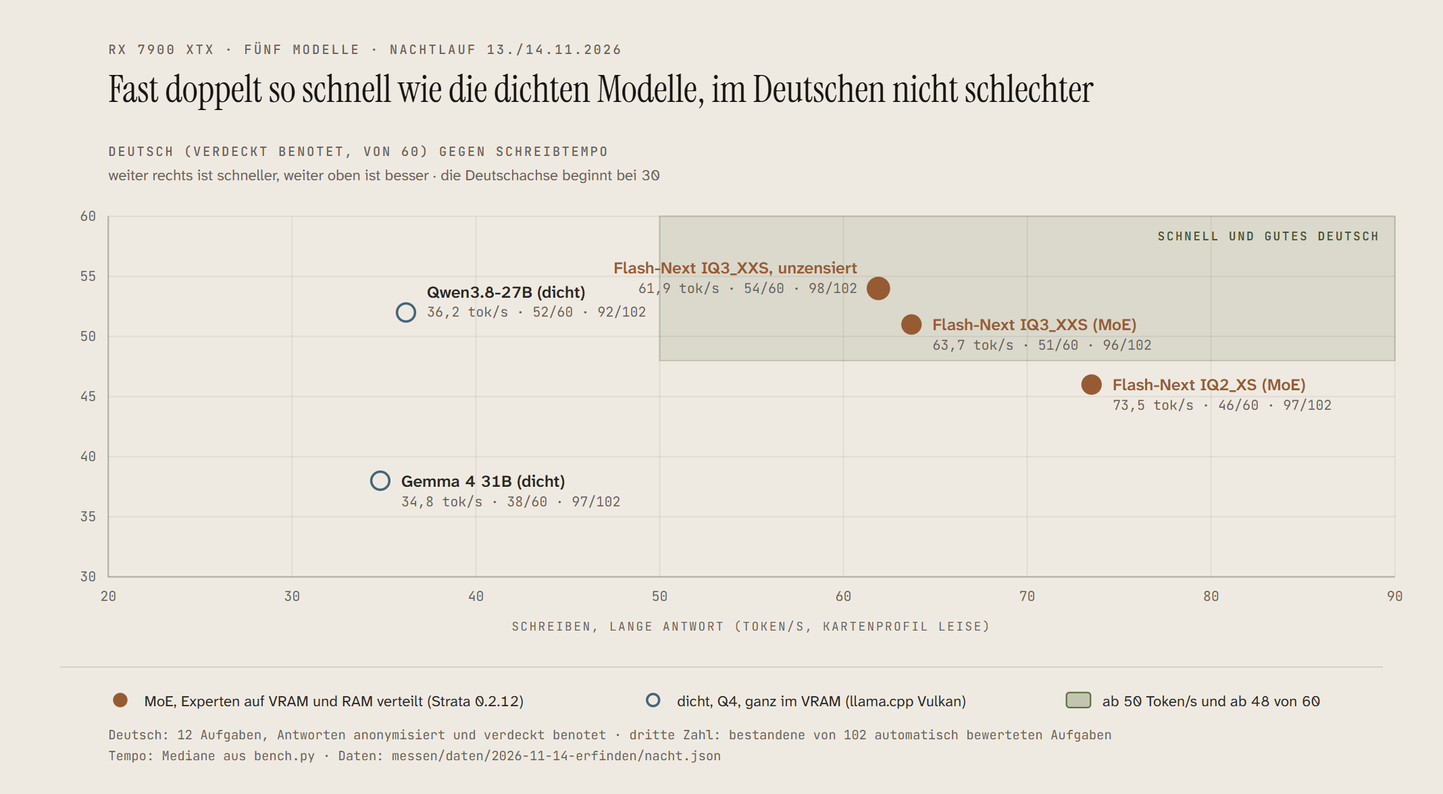
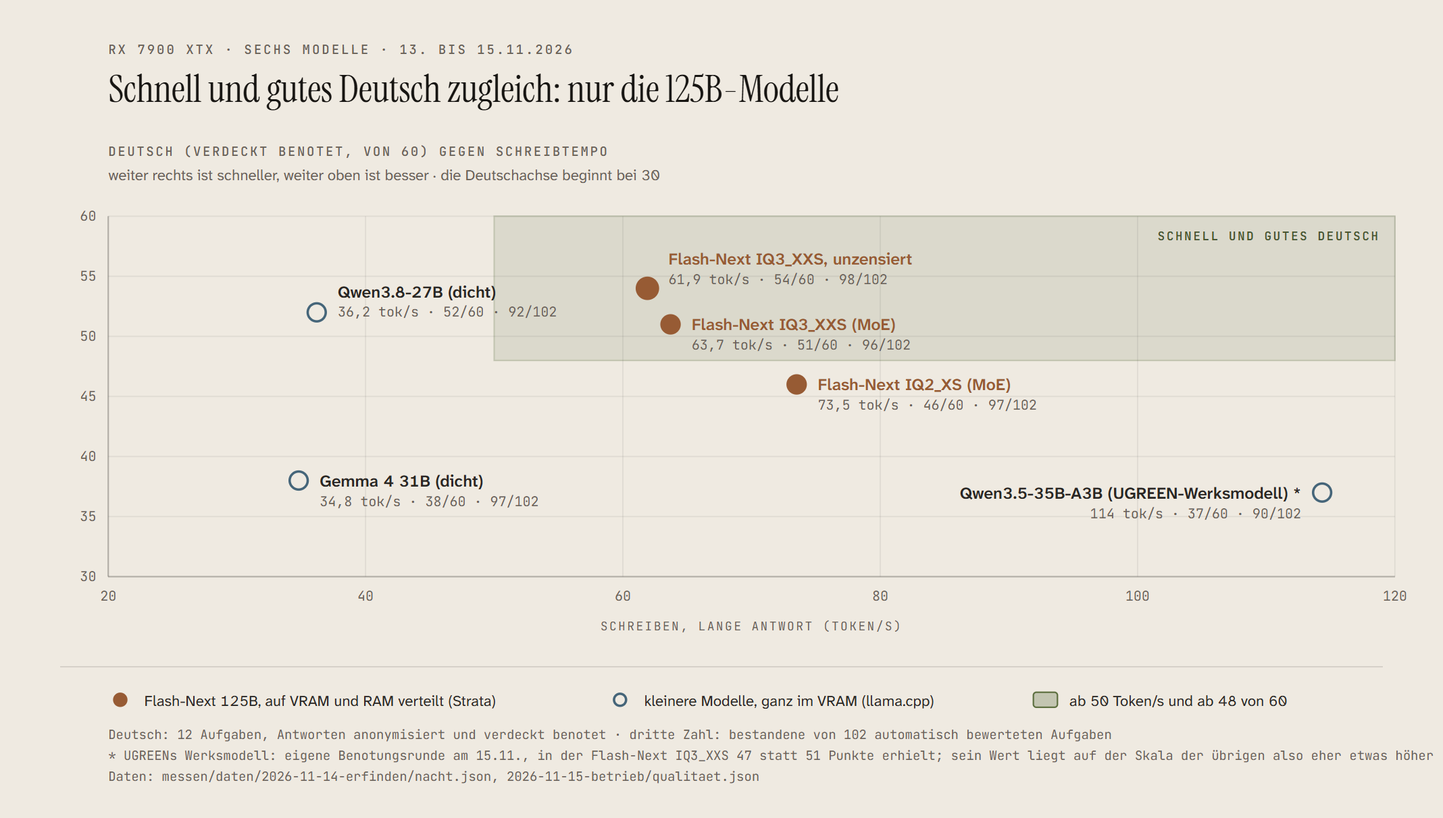
Model comparison with six models incl. the UGREEN stock model; chart on the page (EN/DE)

diff --git a/bilder/html/dicht-moe-en.html b/bilder/html/dicht-moe-en.html
@@ -3,7 +3,7 @@
 <head>
   <meta charset="UTF-8">
   <meta name="viewport" content="width=device-width, initial-scale=1.0">
-  <title>Almost twice as fast as the dense models, and no worse at German</title>
+  <title>Fast and good German at once: only the 125B models</title>
   <link href="https://fonts.googleapis.com/css2?family=Instrument+Serif:ital@0;1&family=Atkinson+Hyperlegible+Next:ital,wght@0,400;0,600;0,700;1,400&family=JetBrains+Mono:wght@400;500;600&display=swap" rel="stylesheet">
   <style>
     *, *::before, *::after { box-sizing: border-box; margin: 0; padding: 0; }
@@ -16,15 +16,15 @@
 </head>
 <body>
   <div class="frame"><div class="scroll">
-    <svg viewBox="0 0 960 528" xmlns="http://www.w3.org/2000/svg" role="img" aria-labelledby="dicht-moe-en-title dicht-moe-en-desc">
-      <title id="dicht-moe-en-title">Almost twice as fast as the dense models, and no worse at Ge</title>
-      <desc id="dicht-moe-en-desc">Five models on one card by decode speed and blind-graded German: the three MoE models write at 62 to 74 tokens per second with 46 to 54 of 60 points, the two dense ones at 35 and 36 with 38 and 52; the uncensored model has the best German at 54.</desc>
-      <rect width="960" height="528" fill="#efeae1"/>
-      <text x="72.0" y="36.0" fill="#6a6258" font-size="8.5" font-family="'JetBrains Mono', Consolas, monospace" font-weight="500" letter-spacing="0.16em">RX 7900 XTX · FIVE MODELS · NIGHT RUN 13/14 NOV 2026</text>
-      <text x="72.0" y="68.0" fill="#171512" font-size="25" font-family="'Instrument Serif', Georgia, serif">Almost twice as fast as the dense models, and no worse at German</text>
+    <svg viewBox="0 0 960 544" xmlns="http://www.w3.org/2000/svg" role="img" aria-labelledby="dicht-moe-en-title dicht-moe-en-desc">
+      <title id="dicht-moe-en-title">Fast and good German at once: only the 125B models</title>
+      <desc id="dicht-moe-en-desc">Six models on one card by decode speed and blind-graded German: the three 125B models write at 62 to 74 tokens per second with 46 to 54 of 60 points, two dense models at 35 and 36 with 38 and 52, UGREEN&#x27;s Qwen 3.5 at 114 with 37.</desc>
+      <rect width="960" height="544" fill="#efeae1"/>
+      <text x="72.0" y="36.0" fill="#6a6258" font-size="8.5" font-family="'JetBrains Mono', Consolas, monospace" font-weight="500" letter-spacing="0.16em">RX 7900 XTX · SIX MODELS · 13 TO 15 NOV 2026</text>
+      <text x="72.0" y="68.0" fill="#171512" font-size="25" font-family="'Instrument Serif', Georgia, serif">Fast and good German at once: only the 125B models</text>
       <text x="72.0" y="104.0" fill="#6a6258" font-size="8.5" font-family="'JetBrains Mono', Consolas, monospace" font-weight="500" letter-spacing="0.14em">GERMAN (GRADED BLIND, OF 60) AGAINST DECODE SPEED</text>
       <text x="72.0" y="120.0" fill="#6a6258" font-size="10" font-family="'Atkinson Hyperlegible Next', 'Segoe UI', sans-serif">further right is faster, further up is better · the German axis starts at 30</text>
-      <rect x="438.9" y="144.0" width="489.1" height="96.0" fill="#c3c5b1" fill-opacity="0.45" stroke="#c3c5b1" stroke-width="1"/>
+      <rect x="328.8" y="144.0" width="599.2" height="96.0" fill="#c3c5b1" fill-opacity="0.45" stroke="#c3c5b1" stroke-width="1"/>
       <text x="918.0" y="160.0" fill="#485530" font-size="8" font-family="'JetBrains Mono', Consolas, monospace" text-anchor="end" font-weight="600" letter-spacing="0.14em">FAST AND GOOD GERMAN</text>
       <text x="64.0" y="387.0" fill="#6a6258" font-size="9" font-family="'JetBrains Mono', Consolas, monospace" text-anchor="end">30</text>
       <line x1="72.0" y1="344.0" x2="928.0" y2="344.0" stroke="#2a2724" stroke-opacity="0.08" stroke-width="0.8"/>
@@ -41,46 +41,46 @@
       <text x="64.0" y="147.0" fill="#6a6258" font-size="9" font-family="'JetBrains Mono', Consolas, monospace" text-anchor="end">60</text>
       <line x1="72.0" y1="144.0" x2="72.0" y2="384.0" stroke="#2a2724" stroke-opacity="0.3" stroke-width="1"/>
       <line x1="72.0" y1="384.0" x2="928.0" y2="384.0" stroke="#2a2724" stroke-opacity="0.3" stroke-width="1"/>
-      <line x1="194.3" y1="144.0" x2="194.3" y2="384.0" stroke="#2a2724" stroke-opacity="0.08" stroke-width="0.8"/>
-      <text x="194.3" y="400.0" fill="#6a6258" font-size="9" font-family="'JetBrains Mono', Consolas, monospace" text-anchor="middle">30</text>
-      <line x1="316.6" y1="144.0" x2="316.6" y2="384.0" stroke="#2a2724" stroke-opacity="0.08" stroke-width="0.8"/>
-      <text x="316.6" y="400.0" fill="#6a6258" font-size="9" font-family="'JetBrains Mono', Consolas, monospace" text-anchor="middle">40</text>
-      <line x1="438.9" y1="144.0" x2="438.9" y2="384.0" stroke="#2a2724" stroke-opacity="0.08" stroke-width="0.8"/>
-      <text x="438.9" y="400.0" fill="#6a6258" font-size="9" font-family="'JetBrains Mono', Consolas, monospace" text-anchor="middle">50</text>
-      <line x1="561.1" y1="144.0" x2="561.1" y2="384.0" stroke="#2a2724" stroke-opacity="0.08" stroke-width="0.8"/>
-      <text x="561.1" y="400.0" fill="#6a6258" font-size="9" font-family="'JetBrains Mono', Consolas, monospace" text-anchor="middle">60</text>
-      <line x1="683.4" y1="144.0" x2="683.4" y2="384.0" stroke="#2a2724" stroke-opacity="0.08" stroke-width="0.8"/>
-      <text x="683.4" y="400.0" fill="#6a6258" font-size="9" font-family="'JetBrains Mono', Consolas, monospace" text-anchor="middle">70</text>
-      <line x1="805.7" y1="144.0" x2="805.7" y2="384.0" stroke="#2a2724" stroke-opacity="0.08" stroke-width="0.8"/>
-      <text x="805.7" y="400.0" fill="#6a6258" font-size="9" font-family="'JetBrains Mono', Consolas, monospace" text-anchor="middle">80</text>
+      <line x1="243.2" y1="144.0" x2="243.2" y2="384.0" stroke="#2a2724" stroke-opacity="0.08" stroke-width="0.8"/>
+      <text x="243.2" y="400.0" fill="#6a6258" font-size="9" font-family="'JetBrains Mono', Consolas, monospace" text-anchor="middle">40</text>
+      <line x1="414.4" y1="144.0" x2="414.4" y2="384.0" stroke="#2a2724" stroke-opacity="0.08" stroke-width="0.8"/>
+      <text x="414.4" y="400.0" fill="#6a6258" font-size="9" font-family="'JetBrains Mono', Consolas, monospace" text-anchor="middle">60</text>
+      <line x1="585.6" y1="144.0" x2="585.6" y2="384.0" stroke="#2a2724" stroke-opacity="0.08" stroke-width="0.8"/>
+      <text x="585.6" y="400.0" fill="#6a6258" font-size="9" font-family="'JetBrains Mono', Consolas, monospace" text-anchor="middle">80</text>
+      <line x1="756.8" y1="144.0" x2="756.8" y2="384.0" stroke="#2a2724" stroke-opacity="0.08" stroke-width="0.8"/>
+      <text x="756.8" y="400.0" fill="#6a6258" font-size="9" font-family="'JetBrains Mono', Consolas, monospace" text-anchor="middle">100</text>
       <line x1="928.0" y1="144.0" x2="928.0" y2="384.0" stroke="#2a2724" stroke-opacity="0.08" stroke-width="0.8"/>
-      <text x="928.0" y="400.0" fill="#6a6258" font-size="9" font-family="'JetBrains Mono', Consolas, monospace" text-anchor="middle">90</text>
+      <text x="928.0" y="400.0" fill="#6a6258" font-size="9" font-family="'JetBrains Mono', Consolas, monospace" text-anchor="middle">120</text>
       <text x="72.0" y="400.0" fill="#6a6258" font-size="9" font-family="'JetBrains Mono', Consolas, monospace" text-anchor="middle">20</text>
-      <text x="500.0" y="420.0" fill="#6a6258" font-size="8" font-family="'JetBrains Mono', Consolas, monospace" text-anchor="middle" letter-spacing="0.14em">DECODE, LONG ANSWER (TOKENS/S, QUIET CARD PROFILE)</text>
-      <circle cx="606.4" cy="216.0" r="6" fill="#975b34" stroke="#975b34" stroke-width="1.6"/>
-      <text x="620.4" y="220.0" fill="#975b34" font-size="11" font-family="'Atkinson Hyperlegible Next', 'Segoe UI', sans-serif" text-anchor="None" font-weight="600">Flash-Next IQ3_XXS (MoE)</text>
-      <text x="620.4" y="233.0" fill="#6a6258" font-size="9" font-family="'JetBrains Mono', Consolas, monospace" text-anchor="None">63.7 tok/s · 51/60 · 96/102</text>
-      <circle cx="584.4" cy="192.0" r="7" fill="#975b34" stroke="#975b34" stroke-width="1.6"/>
-      <text x="570.4" y="182.0" fill="#975b34" font-size="11" font-family="'Atkinson Hyperlegible Next', 'Segoe UI', sans-serif" text-anchor="end" font-weight="600">Flash-Next IQ3_XXS, uncensored</text>
-      <text x="570.4" y="195.0" fill="#6a6258" font-size="9" font-family="'JetBrains Mono', Consolas, monospace" text-anchor="end">61.9 tok/s · 54/60 · 98/102</text>
-      <circle cx="726.2" cy="256.0" r="6" fill="#975b34" stroke="#975b34" stroke-width="1.6"/>
-      <text x="740.2" y="260.0" fill="#975b34" font-size="11" font-family="'Atkinson Hyperlegible Next', 'Segoe UI', sans-serif" text-anchor="None" font-weight="600">Flash-Next IQ2_XS (MoE)</text>
-      <text x="740.2" y="273.0" fill="#6a6258" font-size="9" font-family="'JetBrains Mono', Consolas, monospace" text-anchor="None">73.5 tok/s · 46/60 · 97/102</text>
-      <circle cx="270.1" cy="208.0" r="6" fill="#efeae1" stroke="#456579" stroke-width="1.6"/>
-      <text x="284.1" y="198.0" fill="#2a2724" font-size="11" font-family="'Atkinson Hyperlegible Next', 'Segoe UI', sans-serif" text-anchor="None" font-weight="600">Qwen3.8-27B (dense)</text>
-      <text x="284.1" y="211.0" fill="#6a6258" font-size="9" font-family="'JetBrains Mono', Consolas, monospace" text-anchor="None">36.2 tok/s · 52/60 · 92/102</text>
-      <circle cx="253.0" cy="320.0" r="6" fill="#efeae1" stroke="#456579" stroke-width="1.6"/>
-      <text x="267.0" y="324.0" fill="#2a2724" font-size="11" font-family="'Atkinson Hyperlegible Next', 'Segoe UI', sans-serif" text-anchor="None" font-weight="600">Gemma 4 31B (dense)</text>
-      <text x="267.0" y="337.0" fill="#6a6258" font-size="9" font-family="'JetBrains Mono', Consolas, monospace" text-anchor="None">34.8 tok/s · 38/60 · 97/102</text>
+      <text x="500.0" y="420.0" fill="#6a6258" font-size="8" font-family="'JetBrains Mono', Consolas, monospace" text-anchor="middle" letter-spacing="0.14em">DECODE, LONG ANSWER (TOKENS/S)</text>
+      <circle cx="446.1" cy="216.0" r="6" fill="#975b34" stroke="#975b34" stroke-width="1.6"/>
+      <text x="460.1" y="220.0" fill="#975b34" font-size="11" font-family="'Atkinson Hyperlegible Next', 'Segoe UI', sans-serif" text-anchor="None" font-weight="600">Flash-Next IQ3_XXS (MoE)</text>
+      <text x="460.1" y="233.0" fill="#6a6258" font-size="9" font-family="'JetBrains Mono', Consolas, monospace" text-anchor="None">63.7 tok/s · 51/60 · 96/102</text>
+      <circle cx="430.7" cy="192.0" r="7" fill="#975b34" stroke="#975b34" stroke-width="1.6"/>
+      <text x="444.7" y="176.0" fill="#975b34" font-size="11" font-family="'Atkinson Hyperlegible Next', 'Segoe UI', sans-serif" text-anchor="None" font-weight="600">Flash-Next IQ3_XXS, uncensored</text>
+      <text x="444.7" y="189.0" fill="#6a6258" font-size="9" font-family="'JetBrains Mono', Consolas, monospace" text-anchor="None">61.9 tok/s · 54/60 · 98/102</text>
+      <circle cx="530.0" cy="256.0" r="6" fill="#975b34" stroke="#975b34" stroke-width="1.6"/>
+      <text x="544.0" y="260.0" fill="#975b34" font-size="11" font-family="'Atkinson Hyperlegible Next', 'Segoe UI', sans-serif" text-anchor="None" font-weight="600">Flash-Next IQ2_XS (MoE)</text>
+      <text x="544.0" y="273.0" fill="#6a6258" font-size="9" font-family="'JetBrains Mono', Consolas, monospace" text-anchor="None">73.5 tok/s · 46/60 · 97/102</text>
+      <circle cx="210.7" cy="208.0" r="6" fill="#efeae1" stroke="#456579" stroke-width="1.6"/>
+      <text x="224.7" y="198.0" fill="#2a2724" font-size="11" font-family="'Atkinson Hyperlegible Next', 'Segoe UI', sans-serif" text-anchor="None" font-weight="600">Qwen3.8-27B (dense)</text>
+      <text x="224.7" y="211.0" fill="#6a6258" font-size="9" font-family="'JetBrains Mono', Consolas, monospace" text-anchor="None">36.2 tok/s · 52/60 · 92/102</text>
+      <circle cx="198.7" cy="320.0" r="6" fill="#efeae1" stroke="#456579" stroke-width="1.6"/>
+      <text x="212.7" y="324.0" fill="#2a2724" font-size="11" font-family="'Atkinson Hyperlegible Next', 'Segoe UI', sans-serif" text-anchor="None" font-weight="600">Gemma 4 31B (dense)</text>
+      <text x="212.7" y="337.0" fill="#6a6258" font-size="9" font-family="'JetBrains Mono', Consolas, monospace" text-anchor="None">34.8 tok/s · 38/60 · 97/102</text>
+      <circle cx="879.6" cy="328.0" r="6" fill="#efeae1" stroke="#456579" stroke-width="1.6"/>
+      <text x="865.6" y="332.0" fill="#2a2724" font-size="11" font-family="'Atkinson Hyperlegible Next', 'Segoe UI', sans-serif" text-anchor="end" font-weight="600">Qwen3.5-35B-A3B (UGREEN stock model) *</text>
+      <text x="865.6" y="345.0" fill="#6a6258" font-size="9" font-family="'JetBrains Mono', Consolas, monospace" text-anchor="end">114 tok/s · 37/60 · 90/102</text>
       <line x1="40.0" y1="444.0" x2="920.0" y2="444.0" stroke="#2a2724" stroke-opacity="0.14" stroke-width="0.8"/>
       <circle cx="80.0" cy="466.0" r="4" fill="#975b34" stroke="#975b34" stroke-width="1.6"/>
-      <text x="96.0" y="470.0" fill="#2a2724" font-size="10" font-family="'Atkinson Hyperlegible Next', 'Segoe UI', sans-serif">MoE, experts split between VRAM and RAM (Strata 0.2.12)</text>
-      <circle cx="434.5" cy="466.0" r="4" fill="#efeae1" stroke="#456579" stroke-width="1.6"/>
-      <text x="450.5" y="470.0" fill="#2a2724" font-size="10" font-family="'Atkinson Hyperlegible Next', 'Segoe UI', sans-serif">dense, Q4, fully in VRAM (llama.cpp Vulkan)</text>
-      <rect x="715.0" y="461.0" width="16.0" height="10.0" fill="#c3c5b1" fill-opacity="1" stroke="#5e7040" stroke-width="1" rx="2"/>
-      <text x="739.0" y="470.0" fill="#2a2724" font-size="10" font-family="'Atkinson Hyperlegible Next', 'Segoe UI', sans-serif">from 50 tokens/s and from 48 of 60</text>
-      <text x="72.0" y="492.0" fill="#6a6258" font-size="8.5" font-family="'JetBrains Mono', Consolas, monospace">German: 12 tasks, answers anonymised and graded blind · third number: passed out of 102 auto-graded tasks · speed: bench.py medians</text>
-      <text x="72.0" y="506.0" fill="#6a6258" font-size="8.5" font-family="'JetBrains Mono', Consolas, monospace">data: messen/daten/2026-11-14-erfinden/nacht.json</text>
+      <text x="96.0" y="470.0" fill="#2a2724" font-size="10" font-family="'Atkinson Hyperlegible Next', 'Segoe UI', sans-serif">Flash-Next 125B, split between VRAM and RAM (Strata)</text>
+      <circle cx="418.0" cy="466.0" r="4" fill="#efeae1" stroke="#456579" stroke-width="1.6"/>
+      <text x="434.0" y="470.0" fill="#2a2724" font-size="10" font-family="'Atkinson Hyperlegible Next', 'Segoe UI', sans-serif">smaller models, fully in VRAM (llama.cpp)</text>
+      <rect x="687.5" y="461.0" width="16.0" height="10.0" fill="#c3c5b1" fill-opacity="1" stroke="#5e7040" stroke-width="1" rx="2"/>
+      <text x="711.5" y="470.0" fill="#2a2724" font-size="10" font-family="'Atkinson Hyperlegible Next', 'Segoe UI', sans-serif">from 50 tokens/s and from 48 of 60</text>
+      <text x="72.0" y="492.0" fill="#6a6258" font-size="8.5" font-family="'JetBrains Mono', Consolas, monospace">German: 12 tasks, answers anonymised and graded blind · third number: passed out of 102 auto-graded tasks</text>
+      <text x="72.0" y="506.0" fill="#6a6258" font-size="8.5" font-family="'JetBrains Mono', Consolas, monospace">* UGREEN&#x27;s stock model: separate grading round on 15 Nov in which Flash-Next IQ3_XXS got 47 instead of 51 points, so on the others&#x27; scale its value is probably a little higher</text>
+      <text x="72.0" y="520.0" fill="#6a6258" font-size="8.5" font-family="'JetBrains Mono', Consolas, monospace">data: messen/daten/2026-11-14-erfinden/nacht.json, 2026-11-15-betrieb/qualitaet.json</text>
     </svg>
   </div></div>
 </body>

diff --git a/bilder/html/dicht-moe-de.html b/bilder/html/dicht-moe-de.html
@@ -3,7 +3,7 @@
 <head>
   <meta charset="UTF-8">
   <meta name="viewport" content="width=device-width, initial-scale=1.0">
-  <title>Fast doppelt so schnell wie die dichten Modelle, im Deutschen nicht schlechter</title>
+  <title>Schnell und gutes Deutsch zugleich: nur die 125B-Modelle</title>
   <link href="https://fonts.googleapis.com/css2?family=Instrument+Serif:ital@0;1&family=Atkinson+Hyperlegible+Next:ital,wght@0,400;0,600;0,700;1,400&family=JetBrains+Mono:wght@400;500;600&display=swap" rel="stylesheet">
   <style>
     *, *::before, *::after { box-sizing: border-box; margin: 0; padding: 0; }
@@ -16,15 +16,15 @@
 </head>
 <body>
   <div class="frame"><div class="scroll">
-    <svg viewBox="0 0 960 528" xmlns="http://www.w3.org/2000/svg" role="img" aria-labelledby="dicht-moe-de-title dicht-moe-de-desc">
-      <title id="dicht-moe-de-title">Fast doppelt so schnell wie die dichten Modelle, im Deutsche</title>
-      <desc id="dicht-moe-de-desc">Fünf Modelle auf einer Karte nach Schreibtempo und verdeckt benotetem Deutsch: die drei MoE-Modelle schreiben mit 62 bis 74 Token je Sekunde bei 46 bis 54 von 60 Punkten, die beiden dichten mit 35 und 36 bei 38 und 52; das unzensierte Modell hat mit 54 das beste Deutsch.</desc>
-      <rect width="960" height="528" fill="#efeae1"/>
-      <text x="72.0" y="36.0" fill="#6a6258" font-size="8.5" font-family="'JetBrains Mono', Consolas, monospace" font-weight="500" letter-spacing="0.16em">RX 7900 XTX · FÜNF MODELLE · NACHTLAUF 13./14.11.2026</text>
-      <text x="72.0" y="68.0" fill="#171512" font-size="25" font-family="'Instrument Serif', Georgia, serif">Fast doppelt so schnell wie die dichten Modelle, im Deutschen nicht schlechter</text>
+    <svg viewBox="0 0 960 544" xmlns="http://www.w3.org/2000/svg" role="img" aria-labelledby="dicht-moe-de-title dicht-moe-de-desc">
+      <title id="dicht-moe-de-title">Schnell und gutes Deutsch zugleich: nur die 125B-Modelle</title>
+      <desc id="dicht-moe-de-desc">Sechs Modelle auf einer Karte nach Schreibtempo und verdeckt benotetem Deutsch: die drei 125B-Modelle schreiben mit 62 bis 74 Token je Sekunde bei 46 bis 54 von 60 Punkten, zwei dichte Modelle mit 35 und 36 bei 38 und 52, UGREENs Qwen 3.5 mit 114 bei 37.</desc>
+      <rect width="960" height="544" fill="#efeae1"/>
+      <text x="72.0" y="36.0" fill="#6a6258" font-size="8.5" font-family="'JetBrains Mono', Consolas, monospace" font-weight="500" letter-spacing="0.16em">RX 7900 XTX · SECHS MODELLE · 13. BIS 15.11.2026</text>
+      <text x="72.0" y="68.0" fill="#171512" font-size="25" font-family="'Instrument Serif', Georgia, serif">Schnell und gutes Deutsch zugleich: nur die 125B-Modelle</text>
       <text x="72.0" y="104.0" fill="#6a6258" font-size="8.5" font-family="'JetBrains Mono', Consolas, monospace" font-weight="500" letter-spacing="0.14em">DEUTSCH (VERDECKT BENOTET, VON 60) GEGEN SCHREIBTEMPO</text>
       <text x="72.0" y="120.0" fill="#6a6258" font-size="10" font-family="'Atkinson Hyperlegible Next', 'Segoe UI', sans-serif">weiter rechts ist schneller, weiter oben ist besser · die Deutschachse beginnt bei 30</text>
-      <rect x="438.9" y="144.0" width="489.1" height="96.0" fill="#c3c5b1" fill-opacity="0.45" stroke="#c3c5b1" stroke-width="1"/>
+      <rect x="328.8" y="144.0" width="599.2" height="96.0" fill="#c3c5b1" fill-opacity="0.45" stroke="#c3c5b1" stroke-width="1"/>
       <text x="918.0" y="160.0" fill="#485530" font-size="8" font-family="'JetBrains Mono', Consolas, monospace" text-anchor="end" font-weight="600" letter-spacing="0.14em">SCHNELL UND GUTES DEUTSCH</text>
       <text x="64.0" y="387.0" fill="#6a6258" font-size="9" font-family="'JetBrains Mono', Consolas, monospace" text-anchor="end">30</text>
       <line x1="72.0" y1="344.0" x2="928.0" y2="344.0" stroke="#2a2724" stroke-opacity="0.08" stroke-width="0.8"/>
@@ -41,46 +41,46 @@
       <text x="64.0" y="147.0" fill="#6a6258" font-size="9" font-family="'JetBrains Mono', Consolas, monospace" text-anchor="end">60</text>
       <line x1="72.0" y1="144.0" x2="72.0" y2="384.0" stroke="#2a2724" stroke-opacity="0.3" stroke-width="1"/>
       <line x1="72.0" y1="384.0" x2="928.0" y2="384.0" stroke="#2a2724" stroke-opacity="0.3" stroke-width="1"/>
-      <line x1="194.3" y1="144.0" x2="194.3" y2="384.0" stroke="#2a2724" stroke-opacity="0.08" stroke-width="0.8"/>
-      <text x="194.3" y="400.0" fill="#6a6258" font-size="9" font-family="'JetBrains Mono', Consolas, monospace" text-anchor="middle">30</text>
-      <line x1="316.6" y1="144.0" x2="316.6" y2="384.0" stroke="#2a2724" stroke-opacity="0.08" stroke-width="0.8"/>
-      <text x="316.6" y="400.0" fill="#6a6258" font-size="9" font-family="'JetBrains Mono', Consolas, monospace" text-anchor="middle">40</text>
-      <line x1="438.9" y1="144.0" x2="438.9" y2="384.0" stroke="#2a2724" stroke-opacity="0.08" stroke-width="0.8"/>
-      <text x="438.9" y="400.0" fill="#6a6258" font-size="9" font-family="'JetBrains Mono', Consolas, monospace" text-anchor="middle">50</text>
-      <line x1="561.1" y1="144.0" x2="561.1" y2="384.0" stroke="#2a2724" stroke-opacity="0.08" stroke-width="0.8"/>
-      <text x="561.1" y="400.0" fill="#6a6258" font-size="9" font-family="'JetBrains Mono', Consolas, monospace" text-anchor="middle">60</text>
-      <line x1="683.4" y1="144.0" x2="683.4" y2="384.0" stroke="#2a2724" stroke-opacity="0.08" stroke-width="0.8"/>
-      <text x="683.4" y="400.0" fill="#6a6258" font-size="9" font-family="'JetBrains Mono', Consolas, monospace" text-anchor="middle">70</text>
-      <line x1="805.7" y1="144.0" x2="805.7" y2="384.0" stroke="#2a2724" stroke-opacity="0.08" stroke-width="0.8"/>
-      <text x="805.7" y="400.0" fill="#6a6258" font-size="9" font-family="'JetBrains Mono', Consolas, monospace" text-anchor="middle">80</text>
+      <line x1="243.2" y1="144.0" x2="243.2" y2="384.0" stroke="#2a2724" stroke-opacity="0.08" stroke-width="0.8"/>
+      <text x="243.2" y="400.0" fill="#6a6258" font-size="9" font-family="'JetBrains Mono', Consolas, monospace" text-anchor="middle">40</text>
+      <line x1="414.4" y1="144.0" x2="414.4" y2="384.0" stroke="#2a2724" stroke-opacity="0.08" stroke-width="0.8"/>
+      <text x="414.4" y="400.0" fill="#6a6258" font-size="9" font-family="'JetBrains Mono', Consolas, monospace" text-anchor="middle">60</text>
+      <line x1="585.6" y1="144.0" x2="585.6" y2="384.0" stroke="#2a2724" stroke-opacity="0.08" stroke-width="0.8"/>
+      <text x="585.6" y="400.0" fill="#6a6258" font-size="9" font-family="'JetBrains Mono', Consolas, monospace" text-anchor="middle">80</text>
+      <line x1="756.8" y1="144.0" x2="756.8" y2="384.0" stroke="#2a2724" stroke-opacity="0.08" stroke-width="0.8"/>
+      <text x="756.8" y="400.0" fill="#6a6258" font-size="9" font-family="'JetBrains Mono', Consolas, monospace" text-anchor="middle">100</text>
       <line x1="928.0" y1="144.0" x2="928.0" y2="384.0" stroke="#2a2724" stroke-opacity="0.08" stroke-width="0.8"/>
-      <text x="928.0" y="400.0" fill="#6a6258" font-size="9" font-family="'JetBrains Mono', Consolas, monospace" text-anchor="middle">90</text>
+      <text x="928.0" y="400.0" fill="#6a6258" font-size="9" font-family="'JetBrains Mono', Consolas, monospace" text-anchor="middle">120</text>
       <text x="72.0" y="400.0" fill="#6a6258" font-size="9" font-family="'JetBrains Mono', Consolas, monospace" text-anchor="middle">20</text>
-      <text x="500.0" y="420.0" fill="#6a6258" font-size="8" font-family="'JetBrains Mono', Consolas, monospace" text-anchor="middle" letter-spacing="0.14em">SCHREIBEN, LANGE ANTWORT (TOKEN/S, KARTENPROFIL LEISE)</text>
-      <circle cx="606.4" cy="216.0" r="6" fill="#975b34" stroke="#975b34" stroke-width="1.6"/>
-      <text x="620.4" y="220.0" fill="#975b34" font-size="11" font-family="'Atkinson Hyperlegible Next', 'Segoe UI', sans-serif" text-anchor="None" font-weight="600">Flash-Next IQ3_XXS (MoE)</text>
-      <text x="620.4" y="233.0" fill="#6a6258" font-size="9" font-family="'JetBrains Mono', Consolas, monospace" text-anchor="None">63,7 tok/s · 51/60 · 96/102</text>
-      <circle cx="584.4" cy="192.0" r="7" fill="#975b34" stroke="#975b34" stroke-width="1.6"/>
-      <text x="570.4" y="182.0" fill="#975b34" font-size="11" font-family="'Atkinson Hyperlegible Next', 'Segoe UI', sans-serif" text-anchor="end" font-weight="600">Flash-Next IQ3_XXS, unzensiert</text>
-      <text x="570.4" y="195.0" fill="#6a6258" font-size="9" font-family="'JetBrains Mono', Consolas, monospace" text-anchor="end">61,9 tok/s · 54/60 · 98/102</text>
-      <circle cx="726.2" cy="256.0" r="6" fill="#975b34" stroke="#975b34" stroke-width="1.6"/>
-      <text x="740.2" y="260.0" fill="#975b34" font-size="11" font-family="'Atkinson Hyperlegible Next', 'Segoe UI', sans-serif" text-anchor="None" font-weight="600">Flash-Next IQ2_XS (MoE)</text>
-      <text x="740.2" y="273.0" fill="#6a6258" font-size="9" font-family="'JetBrains Mono', Consolas, monospace" text-anchor="None">73,5 tok/s · 46/60 · 97/102</text>
-      <circle cx="270.1" cy="208.0" r="6" fill="#efeae1" stroke="#456579" stroke-width="1.6"/>
-      <text x="284.1" y="198.0" fill="#2a2724" font-size="11" font-family="'Atkinson Hyperlegible Next', 'Segoe UI', sans-serif" text-anchor="None" font-weight="600">Qwen3.8-27B (dicht)</text>
-      <text x="284.1" y="211.0" fill="#6a6258" font-size="9" font-family="'JetBrains Mono', Consolas, monospace" text-anchor="None">36,2 tok/s · 52/60 · 92/102</text>
-      <circle cx="253.0" cy="320.0" r="6" fill="#efeae1" stroke="#456579" stroke-width="1.6"/>
-      <text x="267.0" y="324.0" fill="#2a2724" font-size="11" font-family="'Atkinson Hyperlegible Next', 'Segoe UI', sans-serif" text-anchor="None" font-weight="600">Gemma 4 31B (dicht)</text>
-      <text x="267.0" y="337.0" fill="#6a6258" font-size="9" font-family="'JetBrains Mono', Consolas, monospace" text-anchor="None">34,8 tok/s · 38/60 · 97/102</text>
+      <text x="500.0" y="420.0" fill="#6a6258" font-size="8" font-family="'JetBrains Mono', Consolas, monospace" text-anchor="middle" letter-spacing="0.14em">SCHREIBEN, LANGE ANTWORT (TOKEN/S)</text>
+      <circle cx="446.1" cy="216.0" r="6" fill="#975b34" stroke="#975b34" stroke-width="1.6"/>
+      <text x="460.1" y="220.0" fill="#975b34" font-size="11" font-family="'Atkinson Hyperlegible Next', 'Segoe UI', sans-serif" text-anchor="None" font-weight="600">Flash-Next IQ3_XXS (MoE)</text>
+      <text x="460.1" y="233.0" fill="#6a6258" font-size="9" font-family="'JetBrains Mono', Consolas, monospace" text-anchor="None">63,7 tok/s · 51/60 · 96/102</text>
+      <circle cx="430.7" cy="192.0" r="7" fill="#975b34" stroke="#975b34" stroke-width="1.6"/>
+      <text x="444.7" y="176.0" fill="#975b34" font-size="11" font-family="'Atkinson Hyperlegible Next', 'Segoe UI', sans-serif" text-anchor="None" font-weight="600">Flash-Next IQ3_XXS, unzensiert</text>
+      <text x="444.7" y="189.0" fill="#6a6258" font-size="9" font-family="'JetBrains Mono', Consolas, monospace" text-anchor="None">61,9 tok/s · 54/60 · 98/102</text>
+      <circle cx="530.0" cy="256.0" r="6" fill="#975b34" stroke="#975b34" stroke-width="1.6"/>
+      <text x="544.0" y="260.0" fill="#975b34" font-size="11" font-family="'Atkinson Hyperlegible Next', 'Segoe UI', sans-serif" text-anchor="None" font-weight="600">Flash-Next IQ2_XS (MoE)</text>
+      <text x="544.0" y="273.0" fill="#6a6258" font-size="9" font-family="'JetBrains Mono', Consolas, monospace" text-anchor="None">73,5 tok/s · 46/60 · 97/102</text>
+      <circle cx="210.7" cy="208.0" r="6" fill="#efeae1" stroke="#456579" stroke-width="1.6"/>
+      <text x="224.7" y="198.0" fill="#2a2724" font-size="11" font-family="'Atkinson Hyperlegible Next', 'Segoe UI', sans-serif" text-anchor="None" font-weight="600">Qwen3.8-27B (dicht)</text>
+      <text x="224.7" y="211.0" fill="#6a6258" font-size="9" font-family="'JetBrains Mono', Consolas, monospace" text-anchor="None">36,2 tok/s · 52/60 · 92/102</text>
+      <circle cx="198.7" cy="320.0" r="6" fill="#efeae1" stroke="#456579" stroke-width="1.6"/>
+      <text x="212.7" y="324.0" fill="#2a2724" font-size="11" font-family="'Atkinson Hyperlegible Next', 'Segoe UI', sans-serif" text-anchor="None" font-weight="600">Gemma 4 31B (dicht)</text>
+      <text x="212.7" y="337.0" fill="#6a6258" font-size="9" font-family="'JetBrains Mono', Consolas, monospace" text-anchor="None">34,8 tok/s · 38/60 · 97/102</text>
+      <circle cx="879.6" cy="328.0" r="6" fill="#efeae1" stroke="#456579" stroke-width="1.6"/>
+      <text x="865.6" y="332.0" fill="#2a2724" font-size="11" font-family="'Atkinson Hyperlegible Next', 'Segoe UI', sans-serif" text-anchor="end" font-weight="600">Qwen3.5-35B-A3B (UGREEN-Werksmodell) *</text>
+      <text x="865.6" y="345.0" fill="#6a6258" font-size="9" font-family="'JetBrains Mono', Consolas, monospace" text-anchor="end">114 tok/s · 37/60 · 90/102</text>
       <line x1="40.0" y1="444.0" x2="920.0" y2="444.0" stroke="#2a2724" stroke-opacity="0.14" stroke-width="0.8"/>
       <circle cx="80.0" cy="466.0" r="4" fill="#975b34" stroke="#975b34" stroke-width="1.6"/>
-      <text x="96.0" y="470.0" fill="#2a2724" font-size="10" font-family="'Atkinson Hyperlegible Next', 'Segoe UI', sans-serif">MoE, Experten auf VRAM und RAM verteilt (Strata 0.2.12)</text>
-      <circle cx="434.5" cy="466.0" r="4" fill="#efeae1" stroke="#456579" stroke-width="1.6"/>
-      <text x="450.5" y="470.0" fill="#2a2724" font-size="10" font-family="'Atkinson Hyperlegible Next', 'Segoe UI', sans-serif">dicht, Q4, ganz im VRAM (llama.cpp Vulkan)</text>
-      <rect x="709.5" y="461.0" width="16.0" height="10.0" fill="#c3c5b1" fill-opacity="1" stroke="#5e7040" stroke-width="1" rx="2"/>
-      <text x="733.5" y="470.0" fill="#2a2724" font-size="10" font-family="'Atkinson Hyperlegible Next', 'Segoe UI', sans-serif">ab 50 Token/s und ab 48 von 60</text>
+      <text x="96.0" y="470.0" fill="#2a2724" font-size="10" font-family="'Atkinson Hyperlegible Next', 'Segoe UI', sans-serif">Flash-Next 125B, auf VRAM und RAM verteilt (Strata)</text>
+      <circle cx="412.5" cy="466.0" r="4" fill="#efeae1" stroke="#456579" stroke-width="1.6"/>
+      <text x="428.5" y="470.0" fill="#2a2724" font-size="10" font-family="'Atkinson Hyperlegible Next', 'Segoe UI', sans-serif">kleinere Modelle, ganz im VRAM (llama.cpp)</text>
+      <rect x="687.5" y="461.0" width="16.0" height="10.0" fill="#c3c5b1" fill-opacity="1" stroke="#5e7040" stroke-width="1" rx="2"/>
+      <text x="711.5" y="470.0" fill="#2a2724" font-size="10" font-family="'Atkinson Hyperlegible Next', 'Segoe UI', sans-serif">ab 50 Token/s und ab 48 von 60</text>
       <text x="72.0" y="492.0" fill="#6a6258" font-size="8.5" font-family="'JetBrains Mono', Consolas, monospace">Deutsch: 12 Aufgaben, Antworten anonymisiert und verdeckt benotet · dritte Zahl: bestandene von 102 automatisch bewerteten Aufgaben</text>
-      <text x="72.0" y="506.0" fill="#6a6258" font-size="8.5" font-family="'JetBrains Mono', Consolas, monospace">Tempo: Mediane aus bench.py · Daten: messen/daten/2026-11-14-erfinden/nacht.json</text>
+      <text x="72.0" y="506.0" fill="#6a6258" font-size="8.5" font-family="'JetBrains Mono', Consolas, monospace">* UGREENs Werksmodell: eigene Benotungsrunde am 15.11., in der Flash-Next IQ3_XXS 47 statt 51 Punkte erhielt; sein Wert liegt auf der Skala der übrigen also eher etwas höher</text>
+      <text x="72.0" y="520.0" fill="#6a6258" font-size="8.5" font-family="'JetBrains Mono', Consolas, monospace">Daten: messen/daten/2026-11-14-erfinden/nacht.json, 2026-11-15-betrieb/qualitaet.json</text>
     </svg>
   </div></div>
 </body>

diff --git a/messen/diagramme.py b/messen/diagramme.py
@@ -485,7 +485,7 @@ def speicher(d, sp):
                                "Von 62,3 GiB RAM hält die Strata-Engine 44,6, NAS-Dienste und Kernel 10,2, verfügbar bleiben 7,5; von 24 GiB VRAM nimmt der Experten-Cache 17,3, der MTP-Entwurf 1,0, alles Übrige 5,3, frei bleiben 0,4."), s, h
 
 
-NAMEN = {"faber": "Flash-Next IQ3_XXS (MoE)", "liber": ("Flash-Next IQ3_XXS, uncensored", "Flash-Next IQ3_XXS, unzensiert"), "velox": "Flash-Next IQ2_XS (MoE)", "qwen27": ("Qwen3.8-27B (dense)", "Qwen3.8-27B (dicht)"), "gemma31": ("Gemma 4 31B (dense)", "Gemma 4 31B (dicht)")}
+NAMEN = {"faber": "Flash-Next IQ3_XXS (MoE)", "liber": ("Flash-Next IQ3_XXS, uncensored", "Flash-Next IQ3_XXS, unzensiert"), "velox": "Flash-Next IQ2_XS (MoE)", "qwen27": ("Qwen3.8-27B (dense)", "Qwen3.8-27B (dicht)"), "gemma31": ("Gemma 4 31B (dense)", "Gemma 4 31B (dicht)"), "qwen35": ("Qwen3.5-35B-A3B (UGREEN stock model)", "Qwen3.5-35B-A3B (UGREEN-Werksmodell)")}
 
 
 def modellname(m, sp):
@@ -494,41 +494,44 @@ def modellname(m, sp):
 
 
 def dicht_moe(d, sp):
-    """Fünf Modelle auf einer Karte: Schreibtempo gegen verdeckt benotetes Deutsch."""
+    """Sechs Modelle auf einer Karte: Schreibtempo gegen verdeckt benotetes Deutsch."""
     en = sp == "en"
     T = lambda de, en_: en_ if en else de
-    daten = json.load(open(os.path.join(d, "2026-11-14-erfinden/nacht.json"), encoding="utf-8"))["modelle"]
+    daten = dict(json.load(open(os.path.join(d, "2026-11-14-erfinden/nacht.json"), encoding="utf-8"))["modelle"])
+    q = json.load(open(os.path.join(d, "2026-11-15-betrieb", "qualitaet.json"), encoding="utf-8"))["modelle"]
+    werk = {x["stufe"]: x for x in json.load(open(os.path.join(d, "2026-11-15-betrieb", "werksmodell.json"), encoding="utf-8"))["stufen"]}
+    daten["qwen35"] = {"schreiben_leise": werk["xtx-vulkan"]["schreiben_tps_median"], "deutsch_60": q["qwen35"]["deutsch_blind_60"], "punkte": {"gesamt": q["qwen35"]["bestanden_gesamt"]}}
     s = Svg()
-    titel = T("Fast doppelt so schnell wie die dichten Modelle, im Deutschen nicht schlechter", "Almost twice as fast as the dense models, and no worse at German")
-    kopf(s, T("RX 7900 XTX · fünf Modelle · Nachtlauf 13./14.11.2026", "RX 7900 XTX · five models · night run 13/14 Nov 2026"), titel)
+    titel = T("Schnell und gutes Deutsch zugleich: nur die 125B-Modelle", "Fast and good German at once: only the 125B models")
+    kopf(s, T("RX 7900 XTX · sechs Modelle · 13. bis 15.11.2026", "RX 7900 XTX · six models · 13 to 15 Nov 2026"), titel)
     feld(s, L, 104, T("Deutsch (verdeckt benotet, von 60) gegen Schreibtempo", "German (graded blind, of 60) against decode speed"),
          T("weiter rechts ist schneller, weiter oben ist besser · die Deutschachse beginnt bei 30", "further right is faster, further up is better · the German axis starts at 30"))
     p = Hoch(s, L, R, 144, 384, 60, 30)
-    X = lambda v: L + (v - 20) / 70 * (R - L)
+    X = lambda v: L + (v - 20) / 100 * (R - L)
     s.rect(X(50), p.Y(60), R - X(50), p.Y(48) - p.Y(60), TON["salbei"][0], deck=0.45)
     s.text(R - 10, p.Y(60) + 16, T("SCHNELL UND GUTES DEUTSCH", "FAST AND GOOD GERMAN"), 8, TON["salbei"][2], "mono", "end", 600, sperr="0.14em")
     p.achse(5, sp)
-    for v in range(30, 91, 10):
+    for v in range(40, 121, 20):
         s.line(X(v), 144, X(v), 384)
         s.text(X(v), 400, str(v), 9, MUTED, "mono", "middle")
     s.text(X(20), 400, "20", 9, MUTED, "mono", "middle")
-    s.text((L + R) / 2, 420, T("Schreiben, lange Antwort (Token/s, Kartenprofil leise)", "decode, long answer (tokens/s, quiet card profile)").upper(), 8, MUTED, "mono", "middle", sperr="0.14em")
+    s.text((L + R) / 2, 420, T("Schreiben, lange Antwort (Token/s)", "decode, long answer (tokens/s)").upper(), 8, MUTED, "mono", "middle", sperr="0.14em")
     for m, w in daten.items():
         moe = m in ("faber", "velox", "liber")
         x, y = X(w["schreiben_leise"]), p.Y(w["deutsch_60"])
         s.punkt(x, y, ACC if moe else STAHL, not moe, r=7 if m == "liber" else 6)
-        links = m == "liber"
+        links = m == "qwen35"
         tx, anker = (x - 14, "end") if links else (x + 14, None)
-        ty = y - 10 if m in ("liber", "qwen27") else y + 4
-        s.text(tx, ty, modellname(m, sp), 11, ACC if moe else INK, "sans", anker, 600)
+        ty = y - 16 if m == "liber" else y - 10 if m == "qwen27" else y + 4
+        s.text(tx, ty, modellname(m, sp) + (" *" if m == "qwen35" else ""), 11, ACC if moe else INK, "sans", anker, 600)
         s.text(tx, ty + 13, f"{z(w['schreiben_leise'], sp)} tok/s · {w['deutsch_60']}/60 · {w['punkte']['gesamt']}/102", 9, MUTED, "mono", anker)
-    h = fuss(s, 444, (("punkt", ACC, T("MoE, Experten auf VRAM und RAM verteilt (Strata 0.2.12)", "MoE, experts split between VRAM and RAM (Strata 0.2.12)")),
-                      ("punkt-hohl", STAHL, T("dicht, Q4, ganz im VRAM (llama.cpp Vulkan)", "dense, Q4, fully in VRAM (llama.cpp Vulkan)")),
+    h = fuss(s, 444, (("punkt", ACC, T("Flash-Next 125B, auf VRAM und RAM verteilt (Strata)", "Flash-Next 125B, split between VRAM and RAM (Strata)")),
+                      ("punkt-hohl", STAHL, T("kleinere Modelle, ganz im VRAM (llama.cpp)", "smaller models, fully in VRAM (llama.cpp)")),
                       ("ton", "salbei", T("ab 50 Token/s und ab 48 von 60", "from 50 tokens/s and from 48 of 60"))),
-             T("Deutsch: 12 Aufgaben, Antworten anonymisiert und verdeckt benotet · dritte Zahl: bestandene von 102 automatisch bewerteten Aufgaben · Tempo: Mediane aus bench.py · Daten: messen/daten/2026-11-14-erfinden/nacht.json",
-               "German: 12 tasks, answers anonymised and graded blind · third number: passed out of 102 auto-graded tasks · speed: bench.py medians · data: messen/daten/2026-11-14-erfinden/nacht.json"))
-    return "dicht-moe", titel, T("Fünf Modelle auf einer Karte nach Schreibtempo und verdeckt benotetem Deutsch: die drei MoE-Modelle schreiben mit 62 bis 74 Token je Sekunde bei 46 bis 54 von 60 Punkten, die beiden dichten mit 35 und 36 bei 38 und 52; das unzensierte Modell hat mit 54 das beste Deutsch.",
-                                 "Five models on one card by decode speed and blind-graded German: the three MoE models write at 62 to 74 tokens per second with 46 to 54 of 60 points, the two dense ones at 35 and 36 with 38 and 52; the uncensored model has the best German at 54."), s, h
+             T("Deutsch: 12 Aufgaben, Antworten anonymisiert und verdeckt benotet · dritte Zahl: bestandene von 102 automatisch bewerteten Aufgaben · * UGREENs Werksmodell: eigene Benotungsrunde am 15.11., in der Flash-Next IQ3_XXS 47 statt 51 Punkte erhielt; sein Wert liegt auf der Skala der übrigen also eher etwas höher · Daten: messen/daten/2026-11-14-erfinden/nacht.json, 2026-11-15-betrieb/qualitaet.json",
+               "German: 12 tasks, answers anonymised and graded blind · third number: passed out of 102 auto-graded tasks · * UGREEN's stock model: separate grading round on 15 Nov in which Flash-Next IQ3_XXS got 47 instead of 51 points, so on the others' scale its value is probably a little higher · data: messen/daten/2026-11-14-erfinden/nacht.json, 2026-11-15-betrieb/qualitaet.json"))
+    return "dicht-moe", titel, T("Sechs Modelle auf einer Karte nach Schreibtempo und verdeckt benotetem Deutsch: die drei 125B-Modelle schreiben mit 62 bis 74 Token je Sekunde bei 46 bis 54 von 60 Punkten, zwei dichte Modelle mit 35 und 36 bei 38 und 52, UGREENs Qwen 3.5 mit 114 bei 37.",
+                                 "Six models on one card by decode speed and blind-graded German: the three 125B models write at 62 to 74 tokens per second with 46 to 54 of 60 points, two dense models at 35 and 36 with 38 and 52, UGREEN's Qwen 3.5 at 114 with 37."), s, h
 
 
 def erfinden(d, sp):

diff --git a/web/bau.py b/web/bau.py
@@ -253,6 +253,10 @@ def seite(sp):
     A(bild(D.betrieb, sp))
     P(T(f"Zum Vergleich ein dichtes 70B-Modell (Llama 3.3, Q4) auf derselben Karte: <b>{z(gpu['schreiben_tps_median'], sp, 1)} Token je Sekunde</b>, weil für jedes Token alle Gewichte gelesen werden und die Hälfte davon hinter der CPU liegt.",
         f"For comparison, a dense 70B model (Llama 3.3, Q4) on the same card: <b>{z(gpu['schreiben_tps_median'], sp, 1)} tokens per second</b>, because every token reads all weights and half of them sit behind the CPU."))
+    A(f"<h3>{T('Sechs Modelle auf derselben Karte', 'Six models on the same card')}</h3>")
+    A(bild(D.dicht_moe, sp))
+    P(T("Auf der Karte laufen auch kleinere Modelle, die ganz in den Grafikspeicher passen. Zwei dichte Modelle schreiben halb so schnell wie das 125B-Modell und bestehen nicht mehr Aufgaben. UGREENs mitgeliefertes Qwen 3.5 schreibt am schnellsten, hat aber das schwächste Deutsch und besteht die wenigsten Aufgaben. Schnell und gut im Deutschen zugleich sind nur die Fassungen des 125B-Modells; die unzensierte liegt im Deutschen vorn.",
+        "Smaller models that fit entirely into video memory run on the card as well. Two dense models write at half the speed of the 125B model and do not pass more tasks. UGREEN's bundled Qwen 3.5 writes fastest but has the weakest German and passes the fewest tasks. Only the versions of the 125B model are both fast and good at German; the uncensored one leads in German."))
     zu()
 
     kapitel(5, "agent", T("Damit der Agent nicht erfindet", "Keeping the agent from making things up"),

diff --git a/docs/agent.de.md b/docs/agent.de.md
@@ -13,7 +13,7 @@ pausiere den Lauf“). Zwei Fragen: Hilft ein anderes Modell auf derselben Karte
 **Dichte Modelle helfen nicht.** Qwen3.8-27B und Gemma 4 31B (je Q4, ganz im VRAM, llama.cpp Vulkan) gegen die beiden
 MoE-Modelle dieses NAS (Strata 0.2.12), alle durch dasselbe Messprogramm:
 
-![Fünf Modelle auf einer Karte: Schreibtempo gegen Deutsch](../bilder/dicht-moe-de.png)
+![Sechs Modelle auf einer Karte: Schreibtempo gegen Deutsch](../bilder/dicht-moe-de.png)
 
 | | Aufgaben (102) | Deutsch, blind (60) | Urteil (9) | Schreiben t/s | Einlesen 32K t/s | erstes Token bei 32K |
 |---|---|---|---|---|---|---|

diff --git a/docs/agent.md b/docs/agent.md
@@ -13,7 +13,7 @@ another model on the same card help, and what else does?
 **Dense models do not help.** Qwen3.8-27B and Gemma 4 31B (Q4 each, fully in VRAM, llama.cpp Vulkan) against the two
 MoE models of this NAS (Strata 0.2.12), all through the same benchmark:
 
-![Five models on one card: decode speed against German](../bilder/dicht-moe-en.png)
+![Six models on one card: decode speed against German](../bilder/dicht-moe-en.png)
 
 | | tasks (102) | German, blind (60) | judgement (9) | decode tok/s | prefill 32K tok/s | first token at 32K |
 |---|---|---|---|---|---|---|
